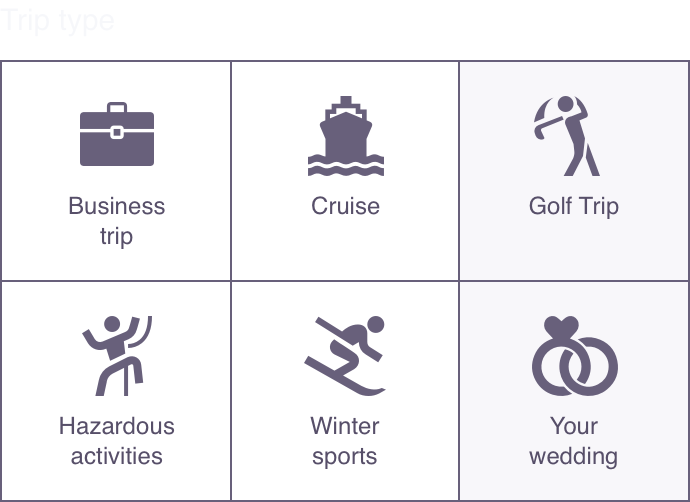
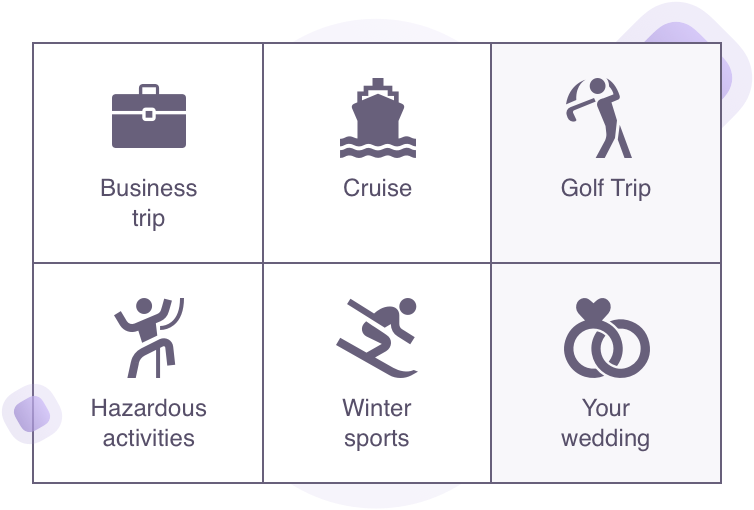
Added new images and improved spacing due to size differences.

Changed region(s): [[0.0, 0.0299, 1.0, 1.0]]

diff --git a/src/components/content-block/_content-block.scss b/src/components/content-block/_content-block.scss
@@ -133,10 +133,14 @@
 
     &--hx-image-10 {
       display: block;
-      margin: -$spacing-6 auto -2rem auto;
+      margin: -$spacing-8 auto -1.5rem auto;
 
       @media screen and (min-width: map-get($breakpoints, 'breakpoint-1')) {
-        max-width: 51.5%;
+        max-width: 60%;
+      }
+
+      @media screen and (min-width: map-get($breakpoints, 'breakpoint-3')) {
+        margin: -$spacing-8 auto -3rem auto;
       }
 
       @media screen and (min-width: map-get($breakpoints, 'breakpoint-4')) {
@@ -146,11 +150,15 @@
 
     &--hx-image-11 {
       display: block;
-      margin: -$spacing-6 auto -1.5rem auto;
+      margin: -$spacing-8 auto -1rem auto;
 
       @media screen and (min-width: map-get($breakpoints, 'breakpoint-1')) {
-        margin: -$spacing-6 auto -1rem auto;
-        max-width: 50%;
+        margin: -$spacing-7 auto -1rem auto;
+        max-width: 60%;
+      }
+
+      @media screen and (min-width: map-get($breakpoints, 'breakpoint-3')) {
+        margin: -$spacing-7 auto -2rem auto;
       }
 
       @media screen and (min-width: map-get($breakpoints, 'breakpoint-4')) {
@@ -160,10 +168,14 @@
 
     &--hx-image-12 {
       display: block;
-      margin: -$spacing-6 auto -.5rem auto;
+      margin: -$spacing-8 auto -.5rem auto;
 
       @media screen and (min-width: map-get($breakpoints, 'breakpoint-1')) {
-        max-width: 50%;
+        max-width: 60%;
+      }
+
+      @media screen and (min-width: map-get($breakpoints, 'breakpoint-3')) {
+        margin: -$spacing-8 auto -1rem auto;
       }
 
       @media screen and (min-width: map-get($breakpoints, 'breakpoint-4')) {
@@ -173,15 +185,15 @@
 
     &--hx-image-13 {
       display: block;
-      margin: -$spacing-6 auto 4.5rem auto;
+      margin: -$spacing-8 auto -1rem auto;
       max-width: 80%;
 
       @media screen and (min-width: map-get($breakpoints, 'breakpoint-1')) {
-        max-width: 40%;
+        max-width: 60%;
       }
 
       @media screen and (min-width: map-get($breakpoints, 'breakpoint-3')) {
-        margin: -$spacing-6 auto 7rem auto;
+        margin: -$spacing-6 auto -.5rem auto;
       }
 
       @media screen and (min-width: map-get($breakpoints, 'breakpoint-4')) {

diff --git a/src/assets/styles/base/_case-study-layouts.scss b/src/assets/styles/base/_case-study-layouts.scss
@@ -117,7 +117,7 @@
 
     &--rift-10 {
       margin-bottom: -$spacing-8;
-      margin-top: $spacing-8;
+      margin-top: $spacing-7;
       min-width: 50rem;
 
       @media screen and (min-width: map-get($breakpoints, 'breakpoint-3')) {
@@ -152,12 +152,17 @@
 
   &--hx {
     background-color: $hx-studio;
-    margin-bottom: 4.5rem;
+    margin-bottom: 5rem;
     margin-top: -7rem;
     z-index: z('below');
 
     @media screen and (min-width: map-get($breakpoints, 'breakpoint-1')) {
+      margin-bottom: 5rem;
       margin-top: -9rem;
+    }
+
+    @media screen and (min-width: map-get($breakpoints, 'breakpoint-3')) {
+      margin-bottom: 7rem;
     }
 
     @media screen and (min-width: map-get($breakpoints, 'breakpoint-4')) {
